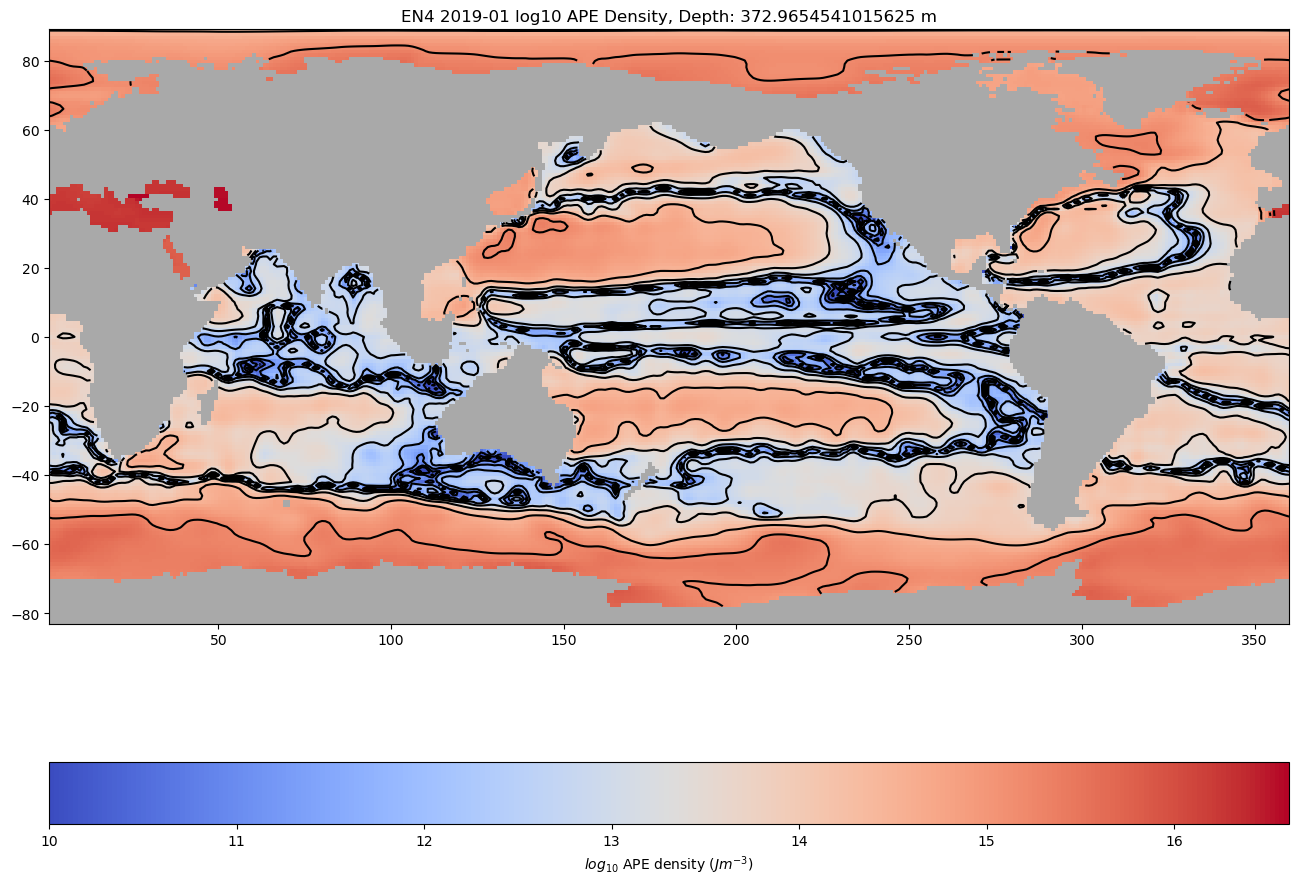
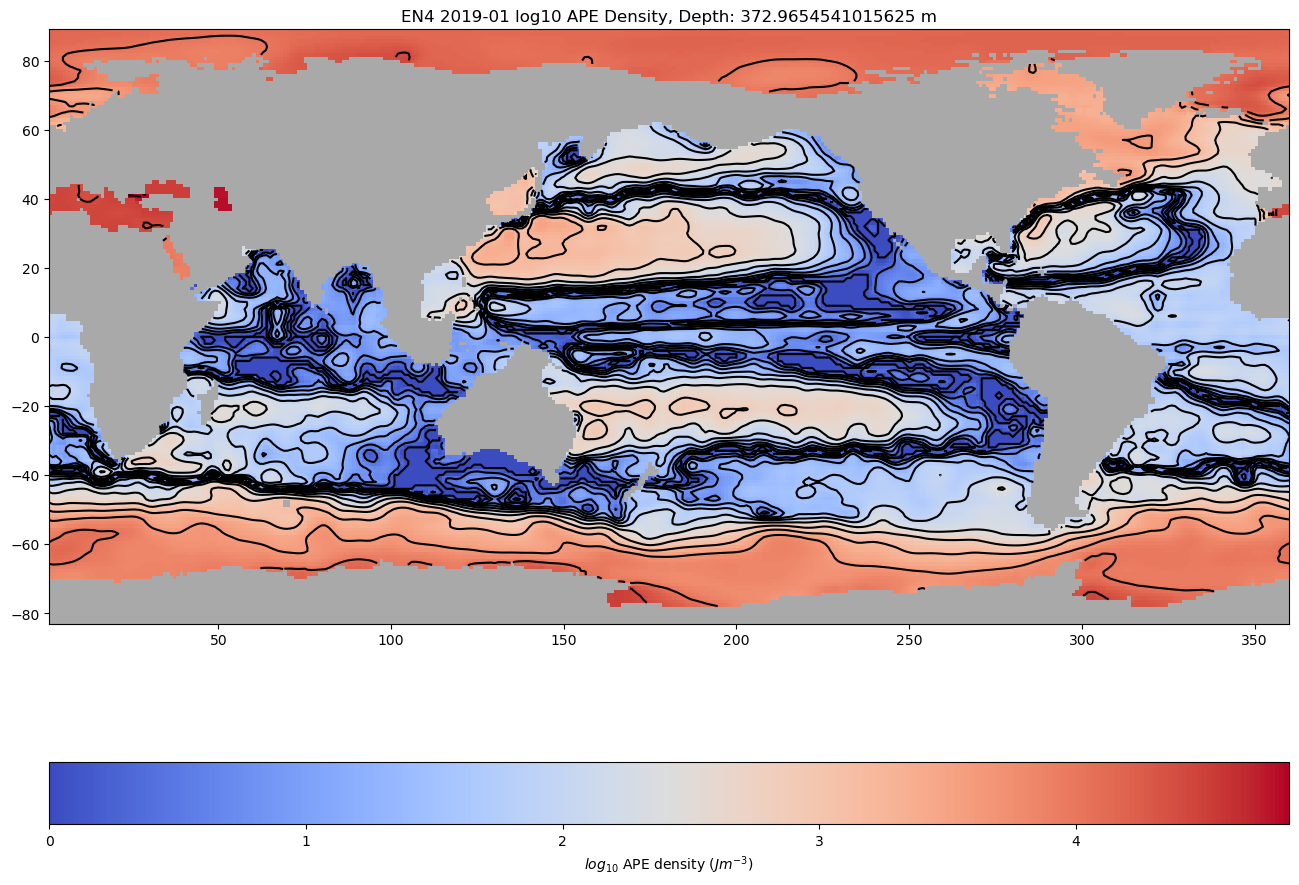
Corrected single depth APE density
Plot showed absolute APE and not APE density, corrected now

diff --git a/WOCE_singledepth.py b/WOCE_singledepth.py
@@ -16,7 +16,7 @@ import pickle
 import pandas as pd
 
 depth_list = [400, 500, 800]
-nlevs = 20
+nlevs = 15
 
 datadir = datapath + 'WOCE_Data/Data/'
 method = 'BAR'
@@ -61,13 +61,15 @@ A_ij3 = np.broadcast_to(A_ij, shape)
 dz3 = np.zeros(shape)
 for i in range(len(dz)):
     dz3[i, :, :] = dz[i]
+
+V_ijk = A_ij3*dz3
     
 for method in ['BAR', 'PYC']:
     #loading mean APE file
     filename = f'WOCE_Data/APEarrays/WAGHC_APE_{method}-mean.npy'
     
     #reading APE density
-    mean_APE = np.load(datapath + filename)
+    mean_APE = np.load(datapath + filename)/V_ijk
 
     #plotting multiple onto same figure
     # fig, axs = plt.subplots(len(depth_list), figsize = (12, 30))
@@ -84,13 +86,13 @@ for method in ['BAR', 'PYC']:
 
         # ax = axs[i]
         ax.set_facecolor('darkgrey')
-        plot = ax.imshow(np.flip(log_APE, axis = 0), cmap = 'coolwarm', vmin = 4.5, 
+        plot = ax.imshow(np.flip(log_APE, axis = 0), cmap = 'coolwarm', 
                       extent = extent)
         ax.contour(lon, lat, log_APE, nlevs, colors = 'black')
 
         plt.colorbar(plot, label = '$log_{10}$ APE density $(Jm^{-3})$', location = 'bottom')
         ax.set_title(f'WOCE {method} log10 APE Density, Depth: {depths[depth_i[i]]} m')
-        # plt.savefig(f'WOCE Plots\{method}\log10_depth{depth_list[i]}.png', bbox_inches = 'tight')
+        plt.savefig(f'WOCE Plots\{method}\log10_depth{depth_list[i]}.png', bbox_inches = 'tight')
     # plt.close()
     
     

diff --git a/EN4_singledepth.py b/EN4_singledepth.py
@@ -48,6 +48,7 @@ A_ij3 = np.broadcast_to(A_ij, shape)
 dz3 = np.zeros(shape)
 for i in range(len(dz)):
     dz3[i, :, :] = dz[i]
+V_ijk = A_ij3 * dz3
     
 depth_i = np.zeros(len(depth_list), dtype = np.int8)
 a = 0
@@ -67,11 +68,11 @@ for year in [2019]:
             month = '0'+str(month)
             
         file = f'APEarrays\APE_{year}-{month}.npy'
-        APE_all = np.load(datapath + file)
+        APE_all = np.load(datapath + file)/V_ijk
         
- #plotting multiple onto same figure
- # fig, axs = plt.subplots(len(depth_list), figsize = (12, 30))
- # plt.suptitle(f'WOCE {method} Mean: Single Depth log APE Densities')
+     #plotting multiple onto same figure
+     # fig, axs = plt.subplots(len(depth_list), figsize = (12, 30))
+     # plt.suptitle(f'WOCE {method} Mean: Single Depth log APE Densities')
  
         for i in range(len(depth_list)):
             fig, ax = plt.subplots(figsize = (16, 12))
@@ -83,7 +84,7 @@ for year in [2019]:
        
             # ax = axs[i]
             ax.set_facecolor('darkgrey')
-            plot = ax.imshow(np.flip(log_APE, axis = 0), cmap = 'coolwarm', vmin = 10, 
+            plot = ax.imshow(np.flip(log_APE, axis = 0), cmap = 'coolwarm', 
                           extent = extent)
             ax.contour(data.lon, data.lat, log_APE, nlevs, colors = 'black')
        

diff --git a/EN4_ZonalMean.py b/EN4_ZonalMean.py
@@ -52,6 +52,6 @@ for year in [2019]:
         ax.set_ylabel('Depth, m')
         ax.set_xlabel('Latitude, $^\circ$')
         ax.invert_yaxis()
-        plt.savefig(f'EN4 Plots\zonalmean_log10APE.png', bbox_inches = 'tight')
+        plt.savefig(f'EN4 Plots\EN4_zonalmean_log10APE.png', bbox_inches = 'tight')
         # plt.close()
     
